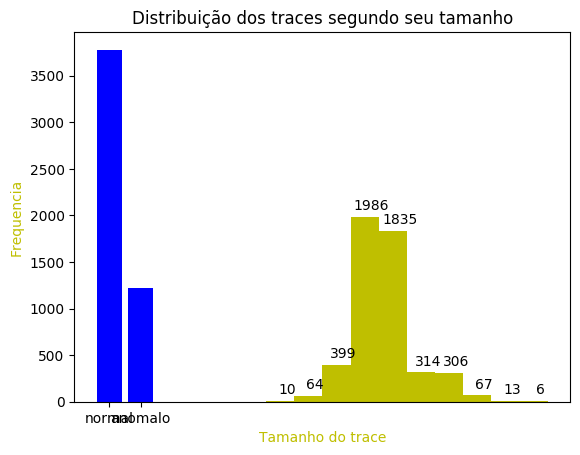
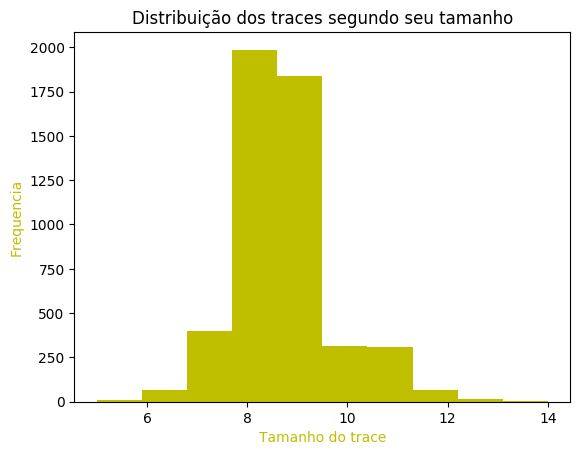
consertados alguns bugs nos gráficos

diff --git a/Pre-processamento/cPreprocessor.py b/Pre-processamento/cPreprocessor.py
@@ -115,6 +115,7 @@ class cPreprocessor(object):
     # Gerar os gráficos descritivos
     def Gerar_graficos(self):
         # Grafico de barras da distribuição das classes
+        plt.figure()
         plt.bar(['normal','anomalo'],self.dataset_trace['label'].value_counts().values, color='b')
         plt.title('Distribuição das classes no conjunto de dados')
         plt.xlabel('Label', color='b')
@@ -123,25 +124,16 @@ class cPreprocessor(object):
         plt.savefig('distribuicao_classes.png', bbox_inches='tight')
 
         # Distribuicao dos traces segundo seu tamanho
-        y = plt.hist(self.dataset_trace['nr_events'], color='y')
-        x = y[1]
-        y = y[0]
-        #print(x)
-        #print(y)
+        plt.figure()
+        plt.hist(self.dataset_trace['nr_events'], color='y')
         plt.title('Distribuição dos traces segundo seu tamanho')
         plt.xlabel('Tamanho do trace', color='y')
         plt.ylabel('Frequencia', color='y')
-        for x,y in zip(x,y):
-            label = int(y)
-            plt.annotate(label, # this is the text
-                         (x,y), # this is the point to label
-                         textcoords="offset points", # how to position the text
-                         xytext=(15,5), # distance from text to points (x,y)
-                         ha='center') # horizontal alignment can be left, right or center
         #plt.show()
         plt.savefig('distribuicao_traces_tamanho.png', bbox_inches='tight')
 
         # Distribuicao dos traces segundo os usuarios envolvidos nele
+        plt.figure()
         plt.hist(self.dataset_trace['nr_users'], color='y')
         plt.title('Distribuição dos traces segundo usuarios envolvidos')
         plt.xlabel('Quantidade de usuários envolvidos no trace', color='y')
@@ -150,6 +142,7 @@ class cPreprocessor(object):
         plt.savefig('distribuicao_traces_usuarios.png', bbox_inches='tight')
 
         #  Gráficos boxplot dos 3 atributos das classes
+        plt.figure()
         variacoes_traces =  self.dataset_trace.drop_duplicates(['trace'], keep='last')
         sns.set(style="whitegrid", color_codes=True)
         sns.boxplot(data=variacoes_traces)
@@ -157,6 +150,7 @@ class cPreprocessor(object):
         plt.savefig('boxplot_eventos_usuarios.png', bbox_inches='tight')
 
         # Distribução das variações de traces
+        plt.figure()
         sns.set(style="whitegrid", color_codes=True)
         sns.boxplot(data=self.dataset_trace['trace'].value_counts())
         plt.title('Distribuição das variacoes do traces no log')
